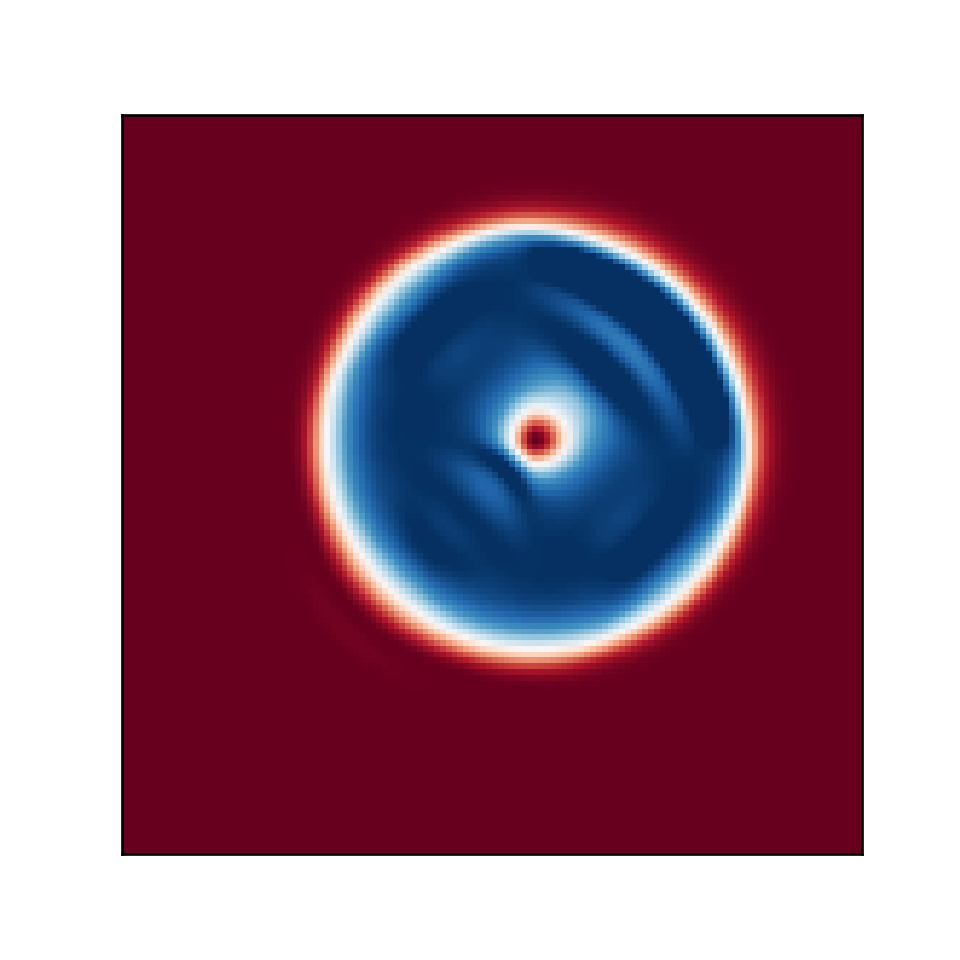
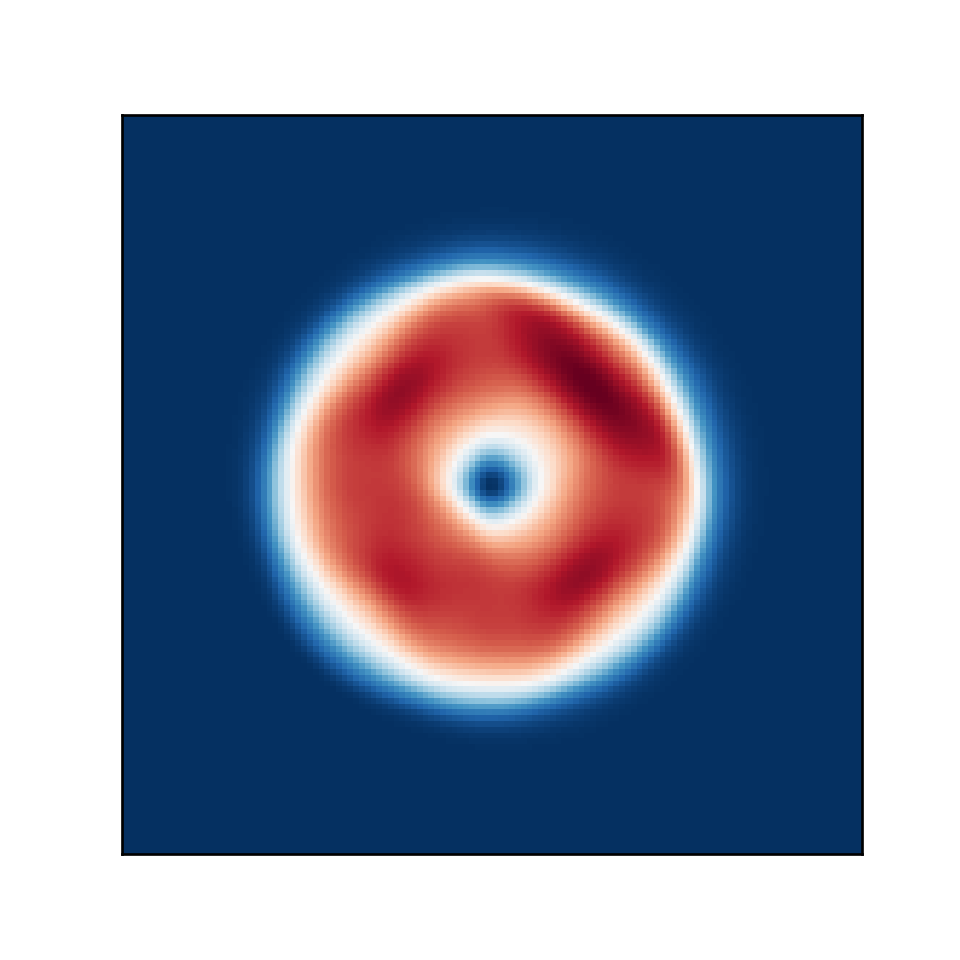
Updated paramerters and README

diff --git a/constrainedtransport.py b/constrainedtransport.py
@@ -312,7 +312,7 @@ def init_Orzag_Tang(boxsize, N, gamma):
 
 def init_Field_loop( boxsize, N, gamma ):
 	# from Athena++
-	vflow = 3
+	vflow = np.sqrt(2)
 	rad = 0.3
 	amp = 1.e-3
 
@@ -351,8 +351,6 @@ def init_Field_loop( boxsize, N, gamma ):
 	Az = np.clip(amp*(rad - dist),0,None)
 	bx, by = getCurl(Az, dx)
 	Bx, By = getBavg(bx, by)
-	Bmag = np.sqrt(Bx**2+By**2)
-	print(Bmag.min(),Bmag.max())
 
 	# add magnetic pressure to get the total pressure
 	P = P + 0.5*(Bx**2 + By**2)
@@ -366,8 +364,8 @@ def main():
 	gamma                  = 5/3 # ideal gas gamma
 	courant_fac            = 0.4
 	t                      = 0
-	tEnd                   = 0.5
-	tOut                   = 0.01 # draw frequency
+	tEnd                   = 2.0
+	tOut                   = 0.1 # draw frequency
 	useSlopeLimiting       = True
 	plotRealTime = True # switch on for plotting as the simulation goes along
 
@@ -461,8 +459,8 @@ def main():
 			# plt.clim(0.06, 0.5)
 			Bx, By = getBavg(bx, by)
 			Pmag = Bx**2+By**2
-			plt.imshow(Pmag.T, cmap='RdBu')
-			plt.clim(0.0, 1.e-6)
+			plt.imshow(Pmag.T, cmap='RdBu_r')
+			# plt.clim(0.0, 1.e-6)
 			ax = plt.gca()
 			ax.invert_yaxis()
 			ax.get_xaxis().set_visible(False)

diff --git a/README.md b/README.md
@@ -5,7 +5,8 @@ Finite Volume Constrained Transport simulation of the Orszag-Tang vortex
 
 ### Philip Mocz (2023), [@PMocz](https://twitter.com/PMocz)
 
-Simulate the Orszag-Tang vortex MHD problem
+Modified by Chang-Goo Kim [@changgoo](http://changgoo.github.io) to simulate the Field Loop advection test presented in
+[Gardiner & Stone (2005)](https://ui.adsabs.harvard.edu/abs/2005JCoPh.205..509G/abstract).
 
 
 ```
